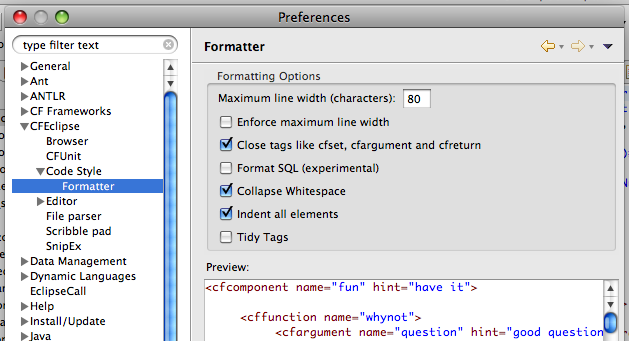
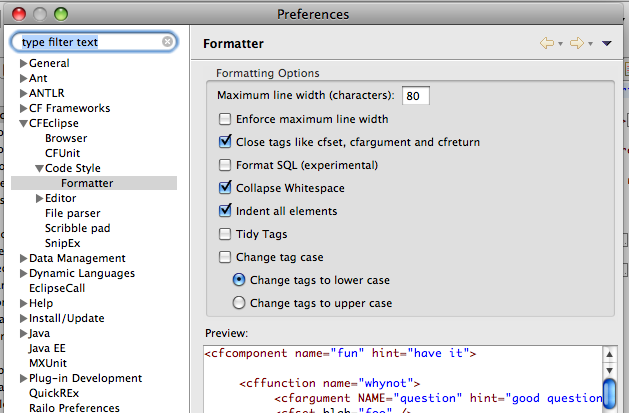
formatting changes

Changed region(s): [[0.0, 0.0, 1.0, 1.0]]

diff --git a/src/org/cfeclipse/cfml/preferences/CodeFormatterPreferencePage.java b/src/org/cfeclipse/cfml/preferences/CodeFormatterPreferencePage.java
@@ -121,9 +121,9 @@ public class CodeFormatterPreferencePage extends AbstractCFEditorPreferencePage 
 		labelText= CFMLPreferencesMessages.CFMLCodeFormatterPreferencePage_16;
 		addCheckBox(wrappingGroup, labelText, EditorPreferenceConstants.FORMATTER_CHANGE_TAG_CASE, 1);
 		labelText= CFMLPreferencesMessages.CFMLCodeFormatterPreferencePage_17;
-		addRadioButton(wrappingGroup, labelText, EditorPreferenceConstants.FORMATTER_CHANGE_TAG_CASE_LOWER, 2);
+		addRadioButton(wrappingGroup, labelText, EditorPreferenceConstants.FORMATTER_CHANGE_TAG_CASE_LOWER, 15);
 		labelText= CFMLPreferencesMessages.CFMLCodeFormatterPreferencePage_18;
-		addRadioButton(wrappingGroup, labelText, EditorPreferenceConstants.FORMATTER_CHANGE_TAG_CASE_UPPER, 2);
+		addRadioButton(wrappingGroup, labelText, EditorPreferenceConstants.FORMATTER_CHANGE_TAG_CASE_UPPER, 15);
 		
 		Label label= new Label(result, SWT.LEFT);
 		label.setText(CFMLPreferencesMessages.CFMLEditorPreferencePage_9);
